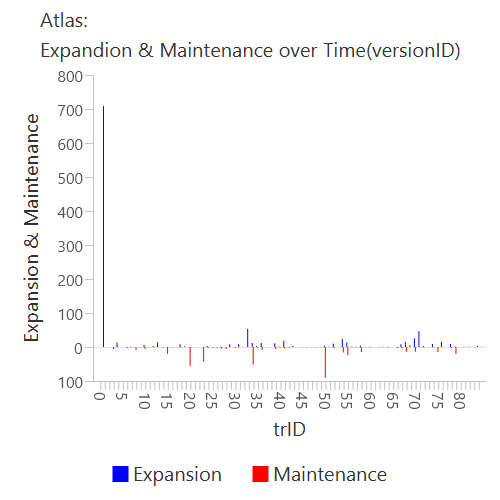
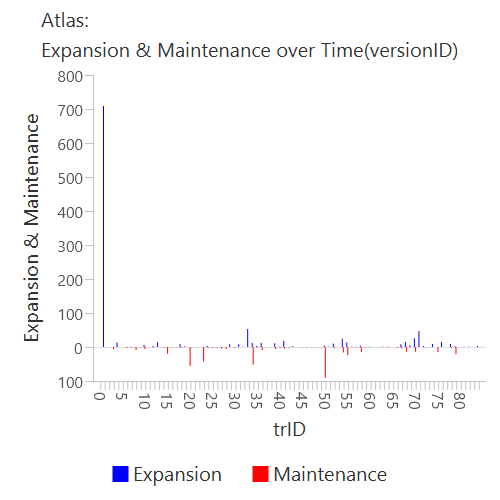
Fixed minor bug at the title of exp & mntnc figure
Added some todo @ SchemaStatsMainEngine for the html,
cause there is no time now for them.

Changed region(s): [[0.06, 0.06, 0.93, 0.12], [0.06, 0.03, 0.18, 0.06]]

diff --git a/resources/test/Profiling/Atlas_Summary.html b/resources/test/Profiling/Atlas_Summary.html
@@ -73,13 +73,13 @@
 <h3>Schema Figures</h3>
 <table style="width:100%">
 <tr>
-<img src="../figures/schemaFigures/ExpansionMaintenanceOverID.png" alt="ExpansionMaintenanceOverID.png" width="500" height="500">
 <img src="../figures/schemaFigures/NumAttrsOverHT.png" alt="NumAttrsOverHT.png" width="500" height="500">
 <img src="../figures/schemaFigures/NumAttrsOverID.png" alt="NumAttrsOverID.png" width="500" height="500">
 <img src="../figures/schemaFigures/NumTablesOverHT.png" alt="NumTablesOverHT.png" width="500" height="500">
 <img src="../figures/schemaFigures/NumTablesOverID.png" alt="NumTablesOverID.png" width="500" height="500">
 <img src="../figures/schemaFigures/TableActivityPerYear.png" alt="TableActivityPerYear.png" width="500" height="500">
 <img src="../figures/schemaFigures/TotalActivityOverID.png" alt="TotalActivityOverID.png" width="500" height="500">
+<img src="../figures/schemaFigures/__ExpansionMaintenanceOverID.png" alt="__ExpansionMaintenanceOverID.png" width="500" height="500">
 </tr>
 </table>
 <h3>Table Figures</h3>

diff --git a/resources/Atlas/resultsOfPatternTests/Atlas_Summary.html b/resources/Atlas/resultsOfPatternTests/Atlas_Summary.html
@@ -80,6 +80,7 @@
 <img src="../figures/schemaFigures/NumTablesOverID.png" alt="NumTablesOverID.png" width="500" height="500">
 <img src="../figures/schemaFigures/TableActivityPerYear.png" alt="TableActivityPerYear.png" width="500" height="500">
 <img src="../figures/schemaFigures/TotalActivityOverID.png" alt="TotalActivityOverID.png" width="500" height="500">
+<img src="../figures/schemaFigures/__ExpansionMaintenanceOverID.png" alt="__ExpansionMaintenanceOverID.png" width="500" height="500">
 </tr>
 </table>
 <h3>Table Figures</h3>

diff --git a/src/chartexport/SchemaChartManager.java b/src/chartexport/SchemaChartManager.java
@@ -54,7 +54,7 @@ public class SchemaChartManager {
 		ArrayList<String> emYAttributes = new ArrayList<String>();  // add the attributes we want
 		emYAttributes.add("Expansion");
 		emYAttributes.add("Maintenance");
-		AbstractBarChartExporter bExpMainID = new BarChartExporter(outputFolderWithFigures+"/"+"ExpansionMaintenanceOverID.png", this.prjName+":\nExpandion & Maintenance over Time(versionID)", hashmapInputTupleCollection, 
+		AbstractBarChartExporter bExpMainID = new BarChartExporter(outputFolderWithFigures+"/"+"ExpansionMaintenanceOverID.png", this.prjName+":\nExpansion & Maintenance over Time(versionID)", hashmapInputTupleCollection, 
 				"trID", emYAttributes,	attributePositions, stage);
 		this.barExporters.add(bExpMainID);
 		

diff --git a/src/mainEngine/SchemaStatsMainEngine.java b/src/mainEngine/SchemaStatsMainEngine.java
@@ -381,7 +381,10 @@ public class SchemaStatsMainEngine {
 	    } else {
 	    	return -1;
 	    }
-		
+
+	    //TODO: split the table in chunks, so that it fits in a reasonable width & move at the end
+	    //TODO: re-arrange the position of the schema figures, they are placed in alphab. order, but, the e&m h/b should go _after_ the 4 schema sizes
+	    //(maybe rename the produced image, s.t., it is after 'Num' and before 'Total')
 	    // create html
 		File summaryHTMLFile = new File(outputFolder + File.separator + prjName + "_Summary.html");
 		try {
